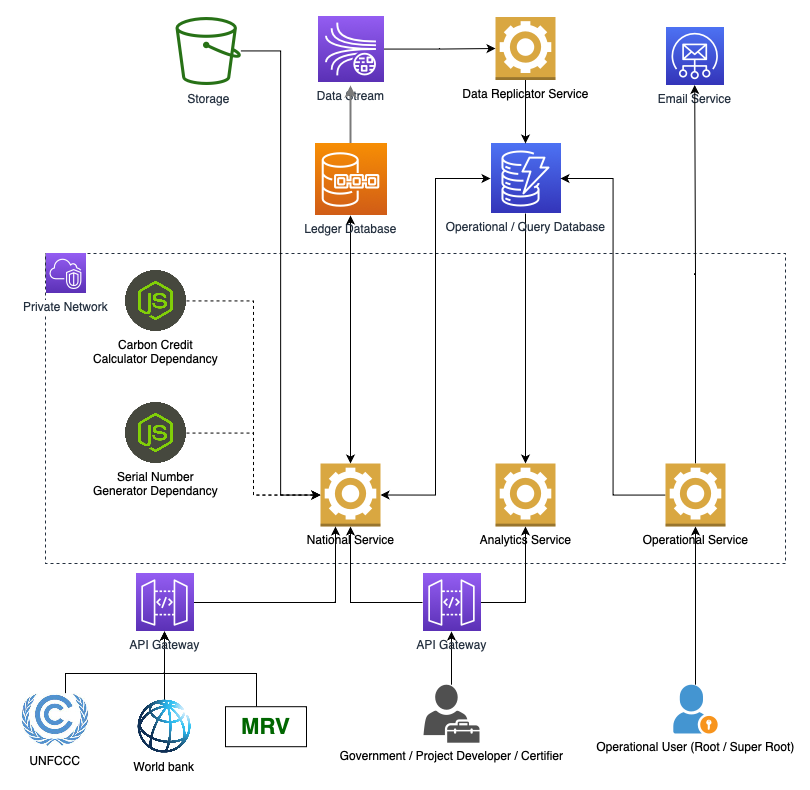
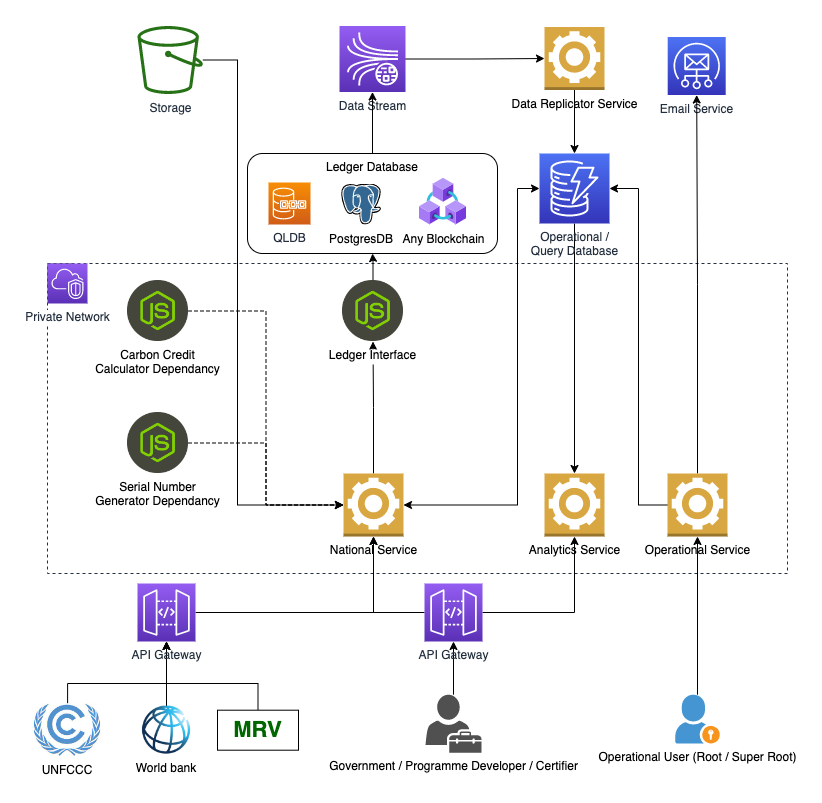
Update documentation

diff --git a/README.md b/README.md
@@ -19,6 +19,80 @@ https://digitalpublicgoods.net/standard/
 UNDP Carbon Registry based on Serverless Architecture.
 ![alt text](./documention/imgs/System%20Architecture.png)
 
+Carbon Registry backend system has a service oriented architecture (SOA) and contains 4 main services.
+
+### **Services**
+#### *National Service*
+
+Authenticate, Validate and Accept user (Government, Programme Developer/Certifier) API request related to following functionalities,
+- User and company CRUD operations.
+- User authentication.
+- Programme life cycle management. 
+- Credit life cycle management.
+
+Service is horizontally scalable and state maintained in the following locations,
+- File storage.
+- Operational Database.
+- Ledger Database.
+
+Uses the Carbon Credit Calculator and Serial Number Generator node modules to estimate the programme carbon credit amount and issue a serial number.
+Uses Ledger interface to persist programme and credit life cycles.
+
+#### *Analytics Service*
+Serve all the system analytics. Generate all the statistic using the operational database. 
+Horizontally scalable. 
+
+#### *Replicator Service*
+Replicating ledger database new items to a operational database asynchronously. During the replication process it is injecting additional query information to the data. 
+In the current setup using AWS QLDB for the ledger database. When it creates or updates data, add the change to a AWS Kinesis Data Stream. Replicator service is consuming the stream.
+
+#### *Operational Service*
+Service that use to do system operations,
+1. Database migrations.
+2. User data creation and update.
+3. Resource creation.
+
+Can trigger internally. Cannot invoke by external sources. 
+
+### **Database Architecture**
+primary/secondary database architecture using for carbon programme and account balances. 
+Ledger database - Primary database. Add/update programmes and update account balances in single transaction. Currently implemented only for AWS QLDB
+
+Operational Database - Secondary database. Eventually add data for query purposes though replicator and data stream. Implemented based on PostgresSQL
+
+**Why Two Database Approach?**
+1. Cost and Query capabilities - Ledger database (blockchain) read capabilities can be limited and costly. To support rich statistics, replicated data in to a cheap query database.
+2. Disaster recovery
+3. Scalability - Primary/secondary database architecture is scalable since additional secondary databases can be added as needed to handle more read operations.
+
+**Why Ledger Database?**
+1. Immutable and Transparent - Track and maintain a sequenced history of every carbon programme and credit change. 
+2. Data Integrity (Cryptographic verification by third party).
+3. Reconcile carbon credit and company account balance.
+
+**Ledger Database Interface**
+
+This enables the capability to add any blockchain or ledger database support to the carbon registry without application changes. Currently for the production system interface implemented for AWS QLDB. For testing purposes interface implemented for PostgresSQL as well.
+
+
+
+Single database approach use for user and company management. 
+
+
+### **Ledger Layout**
+Carbon Registry contains 3 ledger tables.
+1. Programme ledger - Contains all the programme and credit transactions.
+2. Company Account Ledger (Credit) - Contains company accounts credit transactions.
+3. Country Account Ledger (Credit) - Contains country credit transactions.
+
+Below diagram demonstrate the the ledger behavior on programme create, authorise, issue and transfer processes. Blue color document denotes a single data block in a ledger.
+
+![alt text](./documention/imgs/Ledger.png)
+
+### **Authentication**
+- JWT Authentication - All endpoints based on role permissions.
+- API Key Authentication - For MRV User to programme creation.
+
 ## Project Structure
 
     .